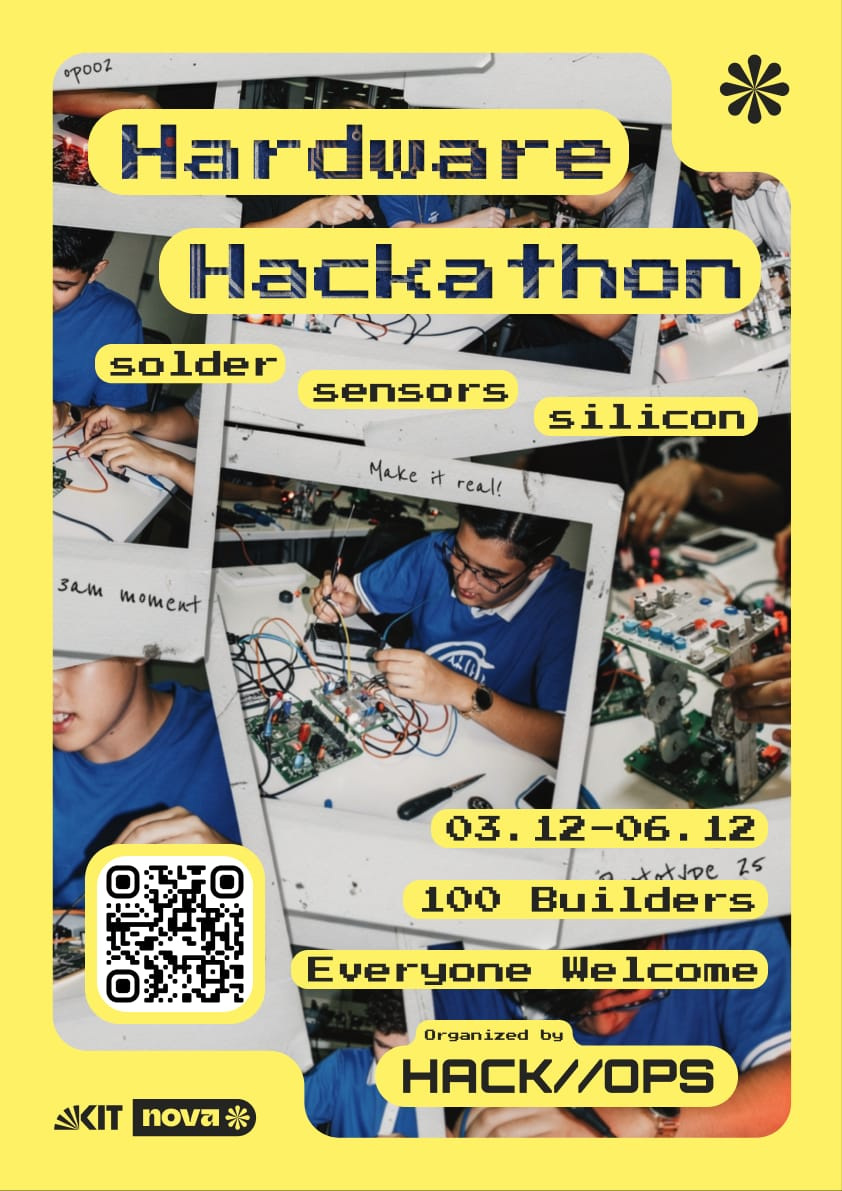
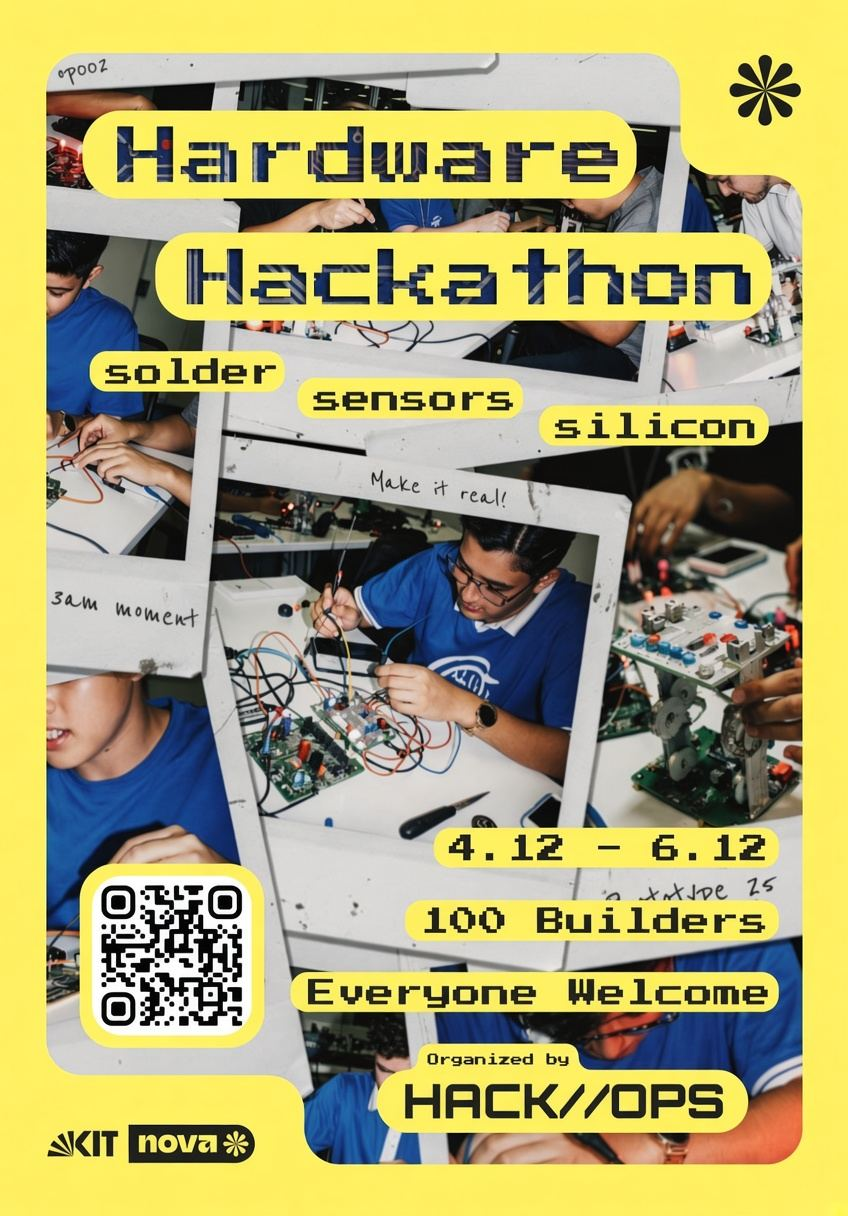
Finish PR #1: correct poster dates, apply the review comments
PR #1 locked op//002 to 04.12 - 06.12.2026 and made bare metal an
internal code name, but it edited copy only. Three loose ends:

The poster still showed 03.12-06.12 in large type on the same card as
the corrected copy, so a visitor read both dates at once. Ships the
re-export, which reads 4.12 - 6.12. Recompressed at quality 78: the
export arrived at 368KB against 147KB before, and every other image on
the site is 37 to 56KB. Now 168KB at unchanged dimensions, and the date
band stays crisp at 3x magnification, well beyond the 228px it renders
at. Phones crop to the top 6 to 57 percent of the poster, so the date
band is not what they show; the copy underneath carries it.

Both review comments were left unapplied at merge, and were the
same defect twice: the code name capitalised as "Bare Metal" reads like
an official title, which is what the PR set out to prevent. Lowercased
in EVENT-BLURBS.md and EDITING.md.

The blurb heading had picked up an em dash, against the house rule in
INSTRUCTIONS.md and EDITING.md. Now a middot, matching the line below.

Not renaming assets/op002-bare-metal.jpg: the code name stays in that
public URL by explicit decision.

diff --git a/EDITING.md b/EDITING.md
@@ -42,7 +42,7 @@ anpassen. `class="status live"` = farbig hervorgehoben, `class="status"` = grau.
 **Anmelde-Link setzen**: der Button auf der OP002-Karte und auf der
 Startseite zeigt auf `https://luma.com/user/hackops`. Sobald das echte Event auf
 lu.ma steht, beide Stellen auf die Event-URL aendern (nach `luma.com` suchen).
-Der interne Codename ist Bare Metal; den nicht als oeffentlichen Titel verwenden.
+Der interne Codename ist bare metal; den nicht als oeffentlichen Titel verwenden.
 
 **Neues Crew-Mitglied**: im `06 CREW` Block eine Zeile kopieren und anpassen:
 

diff --git a/EVENT-BLURBS.md b/EVENT-BLURBS.md
@@ -31,10 +31,10 @@ aendern, sonst laufen die beiden auseinander.
 
 ## op//002 hardware jam (Standardtext)
 
-Internal code name is Bare Metal. Do not use that as the public title; the
+Internal code name is bare metal. Do not use that as the public title; the
 public name is still TBD. Copy below is the locked public framing.
 
-> **op//002 — the hardware hackathon**
+> **op//002 · the hardware hackathon**
 > 04.12 - 06.12.2026 · Karlsruhe · free
 >
 > Solder, sensors, silicon. If it does not physically exist, it does not count.
